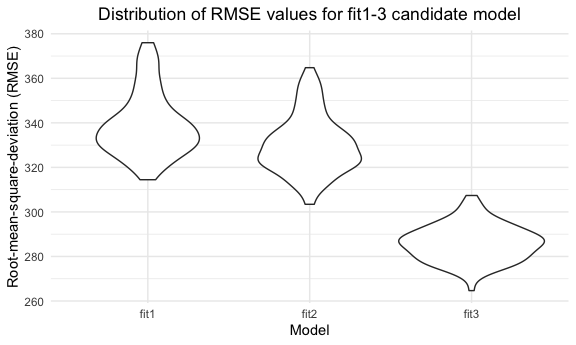
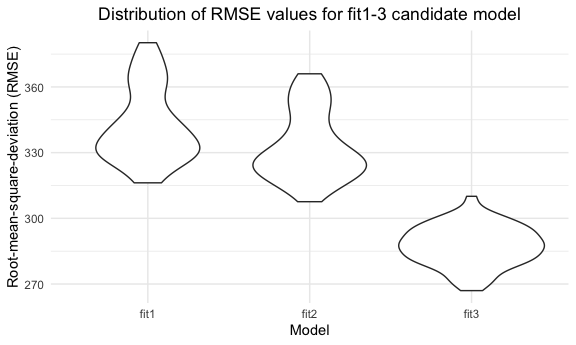
final amendments (II)

diff --git a/p8105_hw6_mm5951.md b/p8105_hw6_mm5951.md
@@ -46,22 +46,6 @@ homicide_df = read_csv("./data/homicide-data.csv", na = c("","Unknown")) %>%
         )
 ```
 
-### Logistic regression
-
-**PROMPT**: For the city of Baltimore, MD, use the glm function to fit a
-logistic regression with resolved vs unresolved as the outcome and
-victim age, sex and race as predictors. Save the output of glm as an R
-object; apply the broom::tidy to this object; and obtain the estimate
-and confidence interval of the adjusted odds ratio for solving homicides
-comparing male victims to female victims keeping all other variables
-fixed.
-
-Now run glm for each of the cities in your dataset, and extract the
-adjusted odds ratio (and CI) for solving homicides comparing male
-victims to female victims. Do this within a “tidy” pipeline, making use
-of purrr::map, list columns, and unnest as necessary to create a
-dataframe with estimated ORs and CIs for each city.
-
 ### Logsitic Regression Analysis: Baltimore, MD
 
 Firstly, for the city of Baltimore, MD, I use the `glm()` function to
@@ -206,18 +190,20 @@ OR_resolution
 <img src="p8105_hw6_mm5951_files/figure-gfm/unnamed-chunk-6-1.png" width="90%" />
 
 In this graph’s interpretation, it is important to note that the
-reference category is female.
+**reference category is female** (as no specific reference is specified
+in the `lgm()` syntaxis and R rather takes an alphabetical order).
 
-Any OR below 1 indicates that a female victim’s case resolution (that
-is, to be classified as “closed by arrest”) is less likely when compared
-to a male’s counterpart, all other variables hold constant. *For
-instance, looking into Denver, an OR = 2.087 (1.039, 4.297) indicates
-that a female victim’s case has a 108.7% increase in the odds of being
-resolved when compared to males. Moreover, the CI does not contain the
-value 1, which indicates it is significant. Conversely, Albuquerque’s OR
-= 0.566 (0.266, 1.213) indicates a decrease in the case’s odds to be
-resolved, although the CI contains 1 and therefore this result is not
-significant.*
+Any OR below 1 indicates that a male victim’s case resolution (that is,
+to be classified as “closed by arrest”) is less likely when compared to
+a female’s counterpart, all other variables hold constant.
+
+- For instance, looking into Denver, an OR = 2.087 (1.039, 4.297)
+  indicates that a male victim’s case has a 108.7% increase in the odds
+  of being resolved when compared to females. Moreover, the CI does not
+  contain the value 1, which indicates it is significant.
+- Conversely, Albuquerque’s OR = 0.566 (0.266, 1.213) indicates a
+  decrease in the case’s odds to be resolved, although the CI contains 1
+  and therefore this result is not significant.
 
 Overall, we observe great variability in terms of resolution of a
 homicide case by the victim’s sex. To be noted is the fact that some
@@ -235,7 +221,7 @@ that binary data collection is more easily understandable (e.g. for
 `sum(is.na())` I check for missing data on the dataset.
 
 ``` r
-birthweight = read_csv("./data/birthweight.csv") %>% 
+birthweight_df = read_csv("./data/birthweight.csv") %>% 
   mutate(babysex = factor(if_else(babysex == 1, "male", "female")),
          frace = factor(recode(frace, '1' = "White", '2' = "Black", '3' = "Asian", 
                                '4' = "Puerto Rican", '8' = "Other", '9' = "Unknown")),
@@ -243,7 +229,7 @@ birthweight = read_csv("./data/birthweight.csv") %>%
                                '4' = "Puerto Rican", '8' = "Other", '9' = "Unknown")),
          malform = factor(recode(malform, '0' = "absent", '1' = "present")))
 
-sum(is.na(birthweight))
+sum(is.na(birthweight_df))
 ```
 
     ## [1] 0
@@ -257,7 +243,7 @@ scatter plot as an exploratory analysis to investigate the basis of this
 hypothesis (using `ggplot()`).
 
 ``` r
-birthweight %>% 
+birthweight_df %>% 
   ggplot(aes(x = blength, y = bwt)) + 
   geom_point(alpha = .5) +
   labs(title = "Scatter plot of recorded baby's weight and length at birth",
@@ -275,7 +261,7 @@ predictor of the birth weight `bwt` into the function `lm()`. To assess
 its fitting, I will plot the model residuals against fitted values.
 
 ``` r
-fit1 = lm(bwt ~ blength, data = birthweight)
+fit1 = lm(bwt ~ blength, data = birthweight_df)
 
 fit1 %>% 
   broom::tidy() %>% 
@@ -288,7 +274,7 @@ fit1 %>%
 | blength     |   139.811 |     1.909 |    73.233 |       0 |
 
 ``` r
-birthweight %>% 
+birthweight_df %>% 
   modelr::add_residuals(fit1) %>% 
   modelr::add_predictions(fit1) %>% 
   ggplot(aes(x = pred, y = resid)) +
@@ -300,8 +286,6 @@ birthweight %>%
 ```
 
 <img src="p8105_hw6_mm5951_files/figure-gfm/unnamed-chunk-9-1.png" width="90%" />
-
-The avbove plot shows that the linearity assumption likely holds.
 
 ### Two alternative linear regression models for birth weight
 
@@ -318,7 +302,7 @@ variables in its arguments. Again, the model of residuals is plotted for
 both fit2 and fit3.
 
 ``` r
-fit2 = lm(bwt ~ blength + gaweeks, data = birthweight)
+fit2 = lm(bwt ~ blength + gaweeks, data = birthweight_df)
 
 fit2 %>% 
   broom::tidy() %>% 
@@ -332,7 +316,7 @@ fit2 %>%
 | gaweeks     |    27.047 |     1.718 |    15.744 |       0 |
 
 ``` r
-birthweight %>% 
+birthweight_df %>% 
   modelr::add_residuals(fit2) %>% 
   modelr::add_predictions(fit2) %>% 
   ggplot(aes(x = pred, y = resid)) +
@@ -346,7 +330,7 @@ birthweight %>%
 <img src="p8105_hw6_mm5951_files/figure-gfm/unnamed-chunk-10-1.png" width="90%" />
 
 ``` r
-fit3 = lm(bwt ~ bhead + blength + babysex + bhead*blength + bhead*babysex + blength*babysex + bhead*blength*babysex, data = birthweight)
+fit3 = lm(bwt ~ bhead + blength + babysex + bhead*blength + bhead*babysex + blength*babysex + bhead*blength*babysex, data = birthweight_df)
 
 fit3 %>% 
   broom::tidy() %>% 
@@ -365,7 +349,7 @@ fit3 %>%
 | bhead:blength:babysexmale |    -3.878 |     1.057 |    -3.670 |   0.000 |
 
 ``` r
-birthweight %>% 
+birthweight_df %>% 
   modelr::add_residuals(fit3) %>% 
   modelr::add_predictions(fit3) %>% 
   ggplot(aes(x = pred, y = resid)) +
@@ -387,15 +371,15 @@ function.
 
 ``` r
 cv_df = 
-  crossv_mc(birthweight, 100) %>% 
+  crossv_mc(birthweight_df, 100) %>% 
   mutate(
     train = map(train, as_tibble),
     test = map(test, as_tibble)
   ) %>% 
   mutate(
-    fit1_mod = map(train, ~lm(bwt ~ blength, data = birthweight)),
-    fit2_mod = map(train, ~lm(bwt ~ blength + gaweeks,birthweight)),
-    fit3_mod = map(train, ~lm(bwt ~ bhead + blength + babysex + bhead*blength + bhead*babysex +       blength*babysex + bhead*blength*babysex, birthweight))
+    fit1_mod = map(train, ~lm(bwt ~ blength, data = birthweight_df)),
+    fit2_mod = map(train, ~lm(bwt ~ blength + gaweeks, data = birthweight_df)),
+    fit3_mod = map(train, ~lm(bwt ~ bhead + blength + babysex + bhead*blength + bhead*babysex +       blength*babysex + bhead*blength*babysex, data = birthweight_df))
   ) %>% 
   mutate(
     rmse_fit1 = map2_dbl(fit1_mod, test, ~rmse(model = .x, data = .y)),
